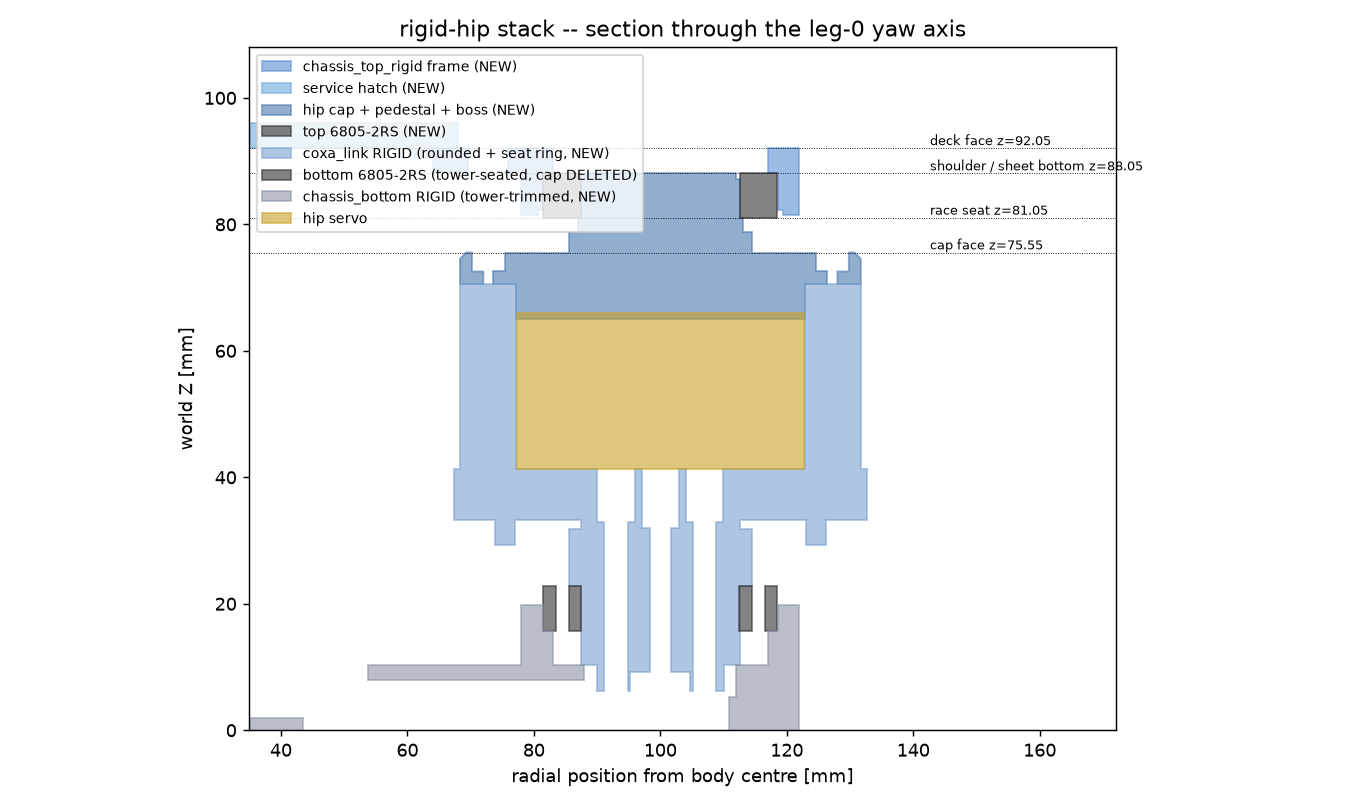
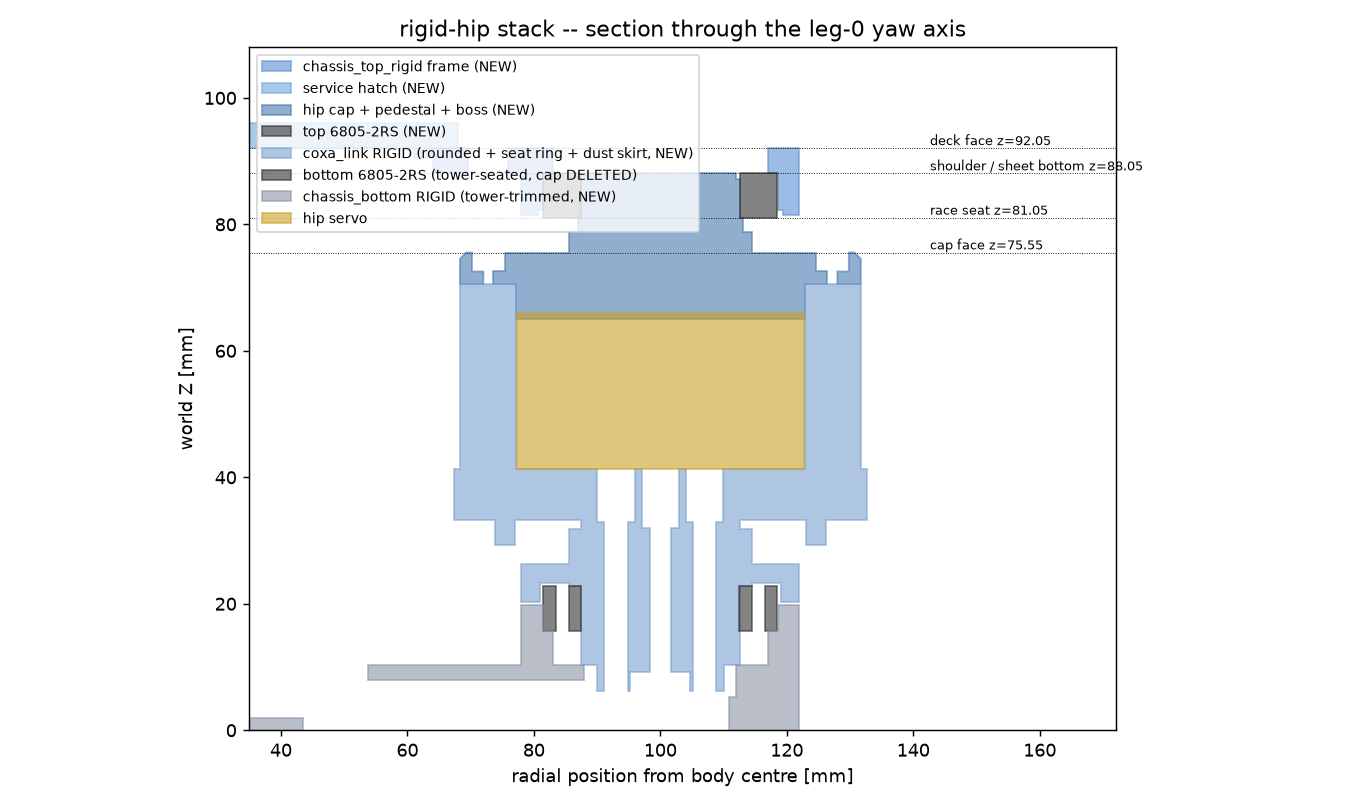
rigid-hip: coxa dust skirt over the tower-seated bearing -- Phi 44 brim + curtain labyrinth, 0.5mm non-contact gaps, covers the race band standing proud of the tower rim

Changed region(s): [[0.4, 0.1861, 0.5231, 0.3102], [0.3692, 0.6824, 0.4308, 0.7444], [0.5538, 0.6824, 0.5846, 0.7444]]

diff --git a/hexapod_walker/prototype_sts3215/concepts/rigid_hip/make_rigid_hip_variant.py b/hexapod_walker/prototype_sts3215/concepts/rigid_hip/make_rigid_hip_variant.py
@@ -37,11 +37,14 @@ pair.  This variant closes the loop from the TOP:
     through printed holes in ``chassis_bottom_rigid`` (on a STOCK
     chassis print: drill them using the foot as the jig).  The four
     central 90 mm standoffs remain only as hatch/electronics anchors.
-  * ``coxa_link_rigid`` (x6) -- the production coxa with two variant
+  * ``coxa_link_rigid`` (x6) -- the production coxa with three variant
     edits: servo-cradle corners rounded to the 38.2 mm yaw envelope
-    (max 2.16 mm off two vertical wall corners), and the hub uflange
+    (max 2.16 mm off two vertical wall corners), the hub uflange
     extended DOWN as a Phi 29 seat ring to the relocated bottom race
-    (see BEARING COUNT).  All other interfaces untouched.
+    (see BEARING COUNT), and a Phi 44 DUST SKIRT that roofs the
+    exposed race and drops a curtain to 0.5 above the tower rim --
+    non-contact, continuing the tower cylinder (see the SKIRT_*
+    constants).  All other interfaces untouched.
   * ``chassis_bottom_rigid`` (x1) -- the production chassis with the
     six tower platforms trimmed to the tower's own Phi 44 cylinder
     (user, Aug 24: corners rounded; rev 2: all corner curves must
@@ -72,8 +75,10 @@ pair.  This variant closes the loop from the TOP:
   hub's new Phi 29 seat ring -> inner race -> outer race -> tower
   seat.  -6 printed caps, -18 M3x8 cap screws, and the leg + bearing
   lift straight out once the plate is off (horn centre screw only).
-  The cap's dust labyrinth is retired: the 6805-2RS is a sealed
-  bearing.  Net bearings per robot: 12, same as production.
+  The race's top 3 mm stands proud of the tower rim; the coxa's new
+  DUST SKIRT covers it with a non-contact labyrinth (user, Aug 24 --
+  see the SKIRT_* constants).  Net bearings per robot: 12, same as
+  production.
 
 TRADE-OFF (measured by the sweep in this script): the full-size top
 plate caps the femur's UP-swing.  The production workspace envelope is
@@ -230,14 +235,32 @@ ROT_BAND_Z0 = 24.0                        # lowest z where anything rotates
 # shoulder -- each bearing takes one direction, no cap lip needed.
 # The race is radially housed by the pocket's 4 mm band (production
 # gave it 4 mm tower + 3 mm cap; the extra 3 mm was cap housing, not
-# seat).  The cap's dust labyrinth is retired -- the 2RS bearing is
-# sealed, and the tower's cap-bolt ears (r to 28) leave no room to
-# drop the hub skirt down instead.
+# seat).  With the cap gone the race's top 3 mm (z 4.5..7.5) stands
+# proud of the tower rim (hp.YAW_SPLIT_Z = 4.5), seal face open to the
+# sky.  A DUST SKIRT on the coxa covers it (user, Aug 24: "should a
+# ring from the coxa link come down and cover part of the bearing
+# that's sticking up?"): a brim roofs the race 0.5 above its top face
+# and a curtain wall drops around the proud band to 0.5 above the
+# tower rim -- Phi 44 OD, continuing the tower's own cylinder (the
+# production cap's dust lip reborn coxa-side).  It touches
+# NOTHING: grit has to turn under the curtain (0.5 axial over the
+# rim), climb the 0.5 radial moat past the race OD, then turn again
+# under the brim -- a three-turn labyrinth, no scraping, no friction.
+# The remaining az-210 cap-bolt ear tops out AT the rim (z 4.5), so
+# the curtain clears it by the same 0.5.
 YAWBR_DROP = -hp.YAW_BEARING_W            # -7: race to the tower pocket
 HUB_RING_OD = hp.YAW_BEARING_INNER_OD     # 29 -- production uflange OD
 HUB_RING_ID = 24.0                        # overlaps the boss wall (22..25.15)
 HUB_RING_Z0 = hp.YAW_BEARING_LOWER_TOP_Z  # 7.5 -- relocated race TOP
 HUB_RING_Z1 = hp.YAW_BEARING_UPPER_TOP_Z + 1.5   # 16 -- well into the uflange
+SKIRT_GAP = 0.5                           # every labyrinth gap, axial + radial
+SKIRT_OD = hp.YAW_BEARING_OD + 2.0 * hp.YAW_TOWER_WALL   # 44 -- flush with the
+                                          # tower cylinder (production's dust
+                                          # lip was 52.4, out over the cap ears)
+SKIRT_ID = hp.YAW_BEARING_OD + 2.0 * SKIRT_GAP   # 38 -- clears the static race OD
+SKIRT_BOT_Z = hp.YAW_SPLIT_Z + SKIRT_GAP  # 5.0 -- hovers over the tower rim
+BRIM_BOT_Z = HUB_RING_Z0 + SKIRT_GAP      # 8.0 -- roof 0.5 above the race top
+BRIM_TOP_Z = 11.0                         # 3 mm roof, fuses over the seat ring
 
 # CHASSIS VARIANT (user, Aug 24: "round the corners on the chassis
 # bottom below where the bearings go"; rev 2 same day: "I don't like
@@ -611,8 +634,8 @@ def make_corner_pillar() -> trimesh.Trimesh:
 
 
 def make_coxa_link_rigid() -> trimesh.Trimesh:
-    """The production coxa with the two variant edits (see the constant
-    blocks above):
+    """The production coxa with the three variant edits (see the
+    constant blocks above):
 
       * ENVELOPE ROUND: servo-cradle corners rounded to the
         ROT_ENVELOPE_R arc about its own yaw axis (max 2.16 mm off two
@@ -623,6 +646,10 @@ def make_coxa_link_rigid() -> trimesh.Trimesh:
         The ring bears only on the Phi 25..29 inner-race land -- same
         contact the production uflange made one race higher -- and
         merges with the boss wall over Phi 24..25.15.
+      * DUST SKIRT: a Phi 44 brim (z 8..11) roofs the exposed race
+        0.5 above its top face and a curtain wall (Phi 38..44) drops
+        around the proud race band to 0.5 above the tower rim.
+        Non-contact everywhere -- see the SKIRT_* constants.
 
     Every other interface (hub, horn drive, cradle pilots, cap seat) is
     untouched.  This makes the coxa a VARIANT print (6x)."""
@@ -631,7 +658,15 @@ def make_coxa_link_rigid() -> trimesh.Trimesh:
         _cyl_z(HUB_RING_OD / 2.0, HUB_RING_Z0, HUB_RING_Z1, sections=128),
         [_cyl_z(HUB_RING_ID / 2.0, HUB_RING_Z0 - 1.0, HUB_RING_Z1 + 1.0,
                 sections=128)])
-    coxa = _union([coxa, ring])
+    brim = _diff(
+        _cyl_z(SKIRT_OD / 2.0, BRIM_BOT_Z, BRIM_TOP_Z, sections=192),
+        [_cyl_z(HUB_RING_ID / 2.0, BRIM_BOT_Z - 1.0, BRIM_TOP_Z + 1.0,
+                sections=128)])
+    curtain = _diff(
+        _cyl_z(SKIRT_OD / 2.0, SKIRT_BOT_Z, BRIM_BOT_Z + 0.5, sections=192),
+        [_cyl_z(SKIRT_ID / 2.0, SKIRT_BOT_Z - 1.0, BRIM_BOT_Z + 1.5,
+                sections=192)])
+    coxa = _union([coxa, ring, brim, curtain])
     z0, z1 = coxa.bounds[0][2] - 1.0, coxa.bounds[1][2] + 1.0
     keep = _cyl_z(ROT_ENVELOPE_R, z0, z1, sections=256)
     return trimesh.boolean.intersection([coxa, keep], engine="manifold")
@@ -975,8 +1010,10 @@ def check_bottom_joint(meshes: dict[str, trimesh.Trimesh]) -> None:
     """ONE tower-seated bottom bearing, NO cap (user, Aug 24): the race
     sits in the production pocket on its z=0.5 seat with only the
     Phi 25.15 boss press touching the coxa, the hub's new Phi 29 ring
-    lands exactly on the race top, and with the plate off the leg +
-    bearing lift straight out of the pocket (horn centre screw only)."""
+    lands exactly on the race top, the dust skirt hovers its SKIRT_GAP
+    labyrinth over the tower rim without touching chassis or race, and
+    with the plate off the leg + bearing lift straight out of the
+    pocket (horn centre screw only)."""
     T = leg_transforms(0)
     br = meshes["yaw_bearing_upper"].copy()
     br.apply_transform(T["coxa"] @ _trans([0.0, 0.0, YAWBR_DROP]))
@@ -1003,6 +1040,27 @@ def check_bottom_joint(meshes: dict[str, trimesh.Trimesh]) -> None:
                                   [ax + r_mid, ay, race_top - 0.3]]))
     assert got[0] and not got[1], "hub seat ring does not land on the race top"
 
+    # dust skirt: curtain wall present around the proud race band, its
+    # bottom edge hovering exactly SKIRT_GAP above the tower rim (the
+    # chassis owns the space below the gap; nobody owns the gap itself),
+    # and the curtain ID standing SKIRT_GAP off the static race OD
+    assert SKIRT_ID / 2.0 - hp.YAW_BEARING_OD / 2.0 == SKIRT_GAP
+    assert SKIRT_BOT_Z - hp.YAW_SPLIT_Z == SKIRT_GAP
+    assert SKIRT_BOT_Z < HUB_RING_Z0, "curtain does not reach the proud band"
+    rim_w = hp.CHASSIS_YAW_OUTPUT_Z + hp.YAW_SPLIT_Z          # tower rim, world
+    r_cur = (SKIRT_ID + SKIRT_OD) / 4.0                       # mid-curtain
+    probes = np.array([
+        [ax + r_cur, ay, rim_w + SKIRT_GAP + 0.3],   # in the curtain wall
+        [ax + r_cur, ay, rim_w + SKIRT_GAP - 0.3],   # in the labyrinth gap
+        [ax + r_cur, ay, rim_w - 0.3],               # in the tower rim
+    ])
+    assert coxa.contains(probes[:1])[0], "dust-skirt curtain missing"
+    in_cx = coxa.contains(probes[1:2])[0]
+    in_ch = meshes["chassis_bottom"].contains(probes[1:2])[0]
+    assert not in_cx and not in_ch, "labyrinth gap is not open"
+    assert meshes["chassis_bottom"].contains(probes[2:])[0], \
+        "no tower rim under the curtain"
+
     # service: plate off -> leg + bearing lift straight out of the pocket
     for dz in (2.0, 5.0, 12.0, 30.0):
         for name, m in (("coxa", coxa), ("race", br)):
@@ -1013,6 +1071,7 @@ def check_bottom_joint(meshes: dict[str, trimesh.Trimesh]) -> None:
                 f"lift +{dz}: {name} fouls chassis_bottom ({v:.1f} mm3)"
     print(f"  bottom joint: race on the tower seat (world z {seat_w:.2f}), "
           f"NO cap; coxa/race contact = boss press ({v_press:.1f} mm3), "
+          f"dust skirt hovers {SKIRT_GAP:g} over the rim, "
           f"leg + bearing lift straight out")
 
 
@@ -1579,7 +1638,7 @@ def render_preview(meshes) -> None:
          "hip cap + pedestal + boss (NEW)"),
         ("bearing_6805", T["hip_cap"], "#303030", "top 6805-2RS (NEW)"),
         ("coxa_link", T["coxa"], "#7ba1d1",
-         "coxa_link RIGID (rounded + seat ring, NEW)"),
+         "coxa_link RIGID (rounded + seat ring + dust skirt, NEW)"),
         ("yaw_bearing_upper", T["coxa"] @ _trans([0.0, 0.0, YAWBR_DROP]),
          "#303030", "bottom 6805-2RS (tower-seated, cap DELETED)"),
         ("chassis_bottom", np.eye(4), "#8b93a6",

diff --git a/hexapod_walker/prototype_sts3215/concepts/rigid_hip/README.md b/hexapod_walker/prototype_sts3215/concepts/rigid_hip/README.md
@@ -28,11 +28,12 @@ servo — is a cantilever.  This variant closes the structure from the top:
   the actual top↔bottom structural connection (see below).  Each
   stands in a vacated corner Wago tray and doubles as the boss its
   hatch perimeter screw threads into.
-* **`coxa_link_rigid`** (print 6): the production coxa with two variant
-  edits — servo-cradle corners rounded to the 38.2 mm yaw envelope so
-  the plain columns clear the swinging leg by 5 mm at every angle, and
-  the hub flange extended down as a Φ29 seat ring to the relocated
-  bottom bearing (see below).
+* **`coxa_link_rigid`** (print 6): the production coxa with three
+  variant edits — servo-cradle corners rounded to the 38.2 mm yaw
+  envelope so the plain columns clear the swinging leg by 5 mm at
+  every angle, the hub flange extended down as a Φ29 seat ring to the
+  relocated bottom bearing, and a Φ44 dust skirt that covers the
+  exposed race with a non-contact labyrinth (see below).
 * **`chassis_bottom_rigid`** (print 1): the production chassis with the
   six square tower platforms trimmed to the tower's own Φ44 cylinder —
   one matching curve from belly to bearing pocket — the dead cap-bolt
@@ -77,9 +78,19 @@ Aug 24):
   run hub → seat ring → inner race → outer race → tower seat; standing
   loads run up through the TOP bearing into the plate shoulder.  Each
   bearing takes one direction; no lip needed.
-* The cap's dust labyrinth is retired — the 6805-2RS is a **sealed**
-  bearing.  The race's outer band is exposed for ~3 mm; acceptable for
-  a concept mule, note it if this ever walks gravel.
+* With the cap gone the race's top 3 mm stands proud of the tower rim.
+  A **dust skirt on the coxa** covers it (user, Aug 24: *"should a
+  ring from the coxa link come down and cover part of the bearing
+  that's sticking up?"*): a brim roofs the race 0.5 mm above its top
+  face and a Φ38→Φ44 curtain wall drops around the proud band to
+  0.5 mm above the tower rim, continuing the tower's own Φ44 cylinder.
+  It **touches nothing** — no scraping: grit has to turn under the
+  curtain (0.5 axial over the rim), climb the 0.5 radial moat past the
+  race OD, then turn again under the brim.  A contact wiper would add
+  friction, squeak PETG-on-PETG, and wear; 0.5 mm rides out print
+  tolerance and bearing play while keeping gravel and grit off the
+  seal.  See `skirt_section.png` / `skirt_closeup.png` (generated with
+  `buildviz section`).
 * Dropping the race 7 mm also stretches the bearing couple: mid-plane
   to mid-plane goes from ~58 mm (cap-held) to ~65 mm.
 
@@ -182,9 +193,10 @@ territory outside every swing envelope):
 * **`coxa_link_rigid`** (print 6): the production coxa with its two
   servo-cradle corner edges rounded to the 38.2 mm arc — at most
   2.16 mm comes off (they used to reach 40.36 mm) — plus the Φ29 hub
-  seat ring for the tower-seated bearing (previous section).  Hub,
-  horn drive, cradle pilots and cap seat are untouched — the price of
-  a plain column instead of a scalloped one is a variant coxa print.
+  seat ring and Φ44 dust skirt for the tower-seated bearing (previous
+  section).  Hub, horn drive, cradle pilots and cap seat are
+  untouched — the price of a plain column instead of a scalloped one
+  is a variant coxa print.
 * **Top**: stops 0.1 mm short of the frame sheet (the six bearing
   RACES define the plate plane — the screws pull the sheet down onto
   the pillar; sand/shim a proud pillar, never let it rock).  Two Φ2.5
@@ -256,6 +268,7 @@ one printed block at the chassis centre:
 | race shoulder | 34 | `YAW_TOWER_SHOULDER_OD` |
 | ring wall | 44 = 37 + 2×3.5 | `YAW_TOWER_WALL` |
 | hub seat ring → inner-race land | 29 (axial seat, not a fit) | `YAW_BEARING_INNER_OD` |
+| dust skirt (curtain ID / OD) | 38 / 44 — 0.5 mm gap everywhere, never touches | `SKIRT_*` in the generator |
 
 Boss tip has a Φ24×0.8 stepped lead-in; pocket mouths have a 0.8 mm
 lead-in ring.
@@ -399,8 +412,9 @@ serviceable option.
   supports.
 * `coxa_link_rigid`: print exactly like the production coxa (same
   orientation and supports).  The rounded corners change nothing; the
-  Φ29 seat ring prints as a horizontal cylinder band exactly like the
-  uflange above it (the coxa prints on its side).
+  Φ29 seat ring, dust-skirt brim and Φ44 curtain all print as
+  horizontal cylinder bands exactly like the uflange above them (the
+  coxa prints on its side).
 * `chassis_bottom_rigid`: print exactly like the production chassis
   (belly up, same supports).  The tower-cylinder trim, shaved ears and
   foot holes change nothing about the print strategy.
@@ -432,7 +446,9 @@ npx buildviz register hexapod_walker/prototype_sts3215/concepts/rigid_hip \
 
 Checks run at build time: watertightness, seated-stack placement, the
 bottom joint (race on the tower seat, coxa/race contact = boss press
-only, seat ring lands on the race top, leg + bearing lift-out path),
+only, seat ring lands on the race top, dust-skirt labyrinth open on
+both sides of the gap with the rim proven under the curtain, leg +
+bearing lift-out path),
 the chassis variant (nothing outboard survives past the tower
 cylinder, the trim never bit the tower wall, only the intentional
 inboard boss survives, foot holes open where the pillar feet expect
